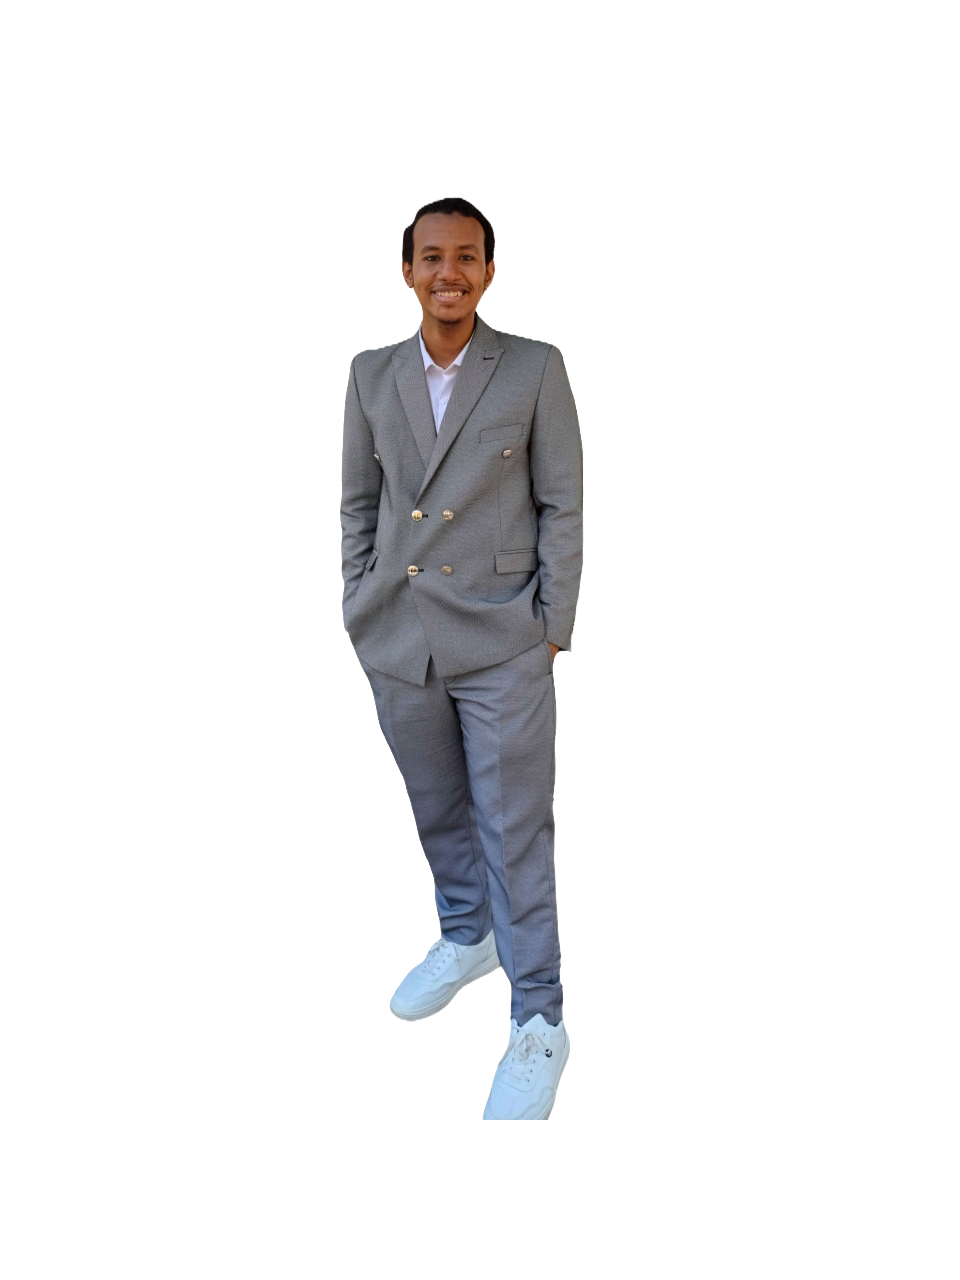
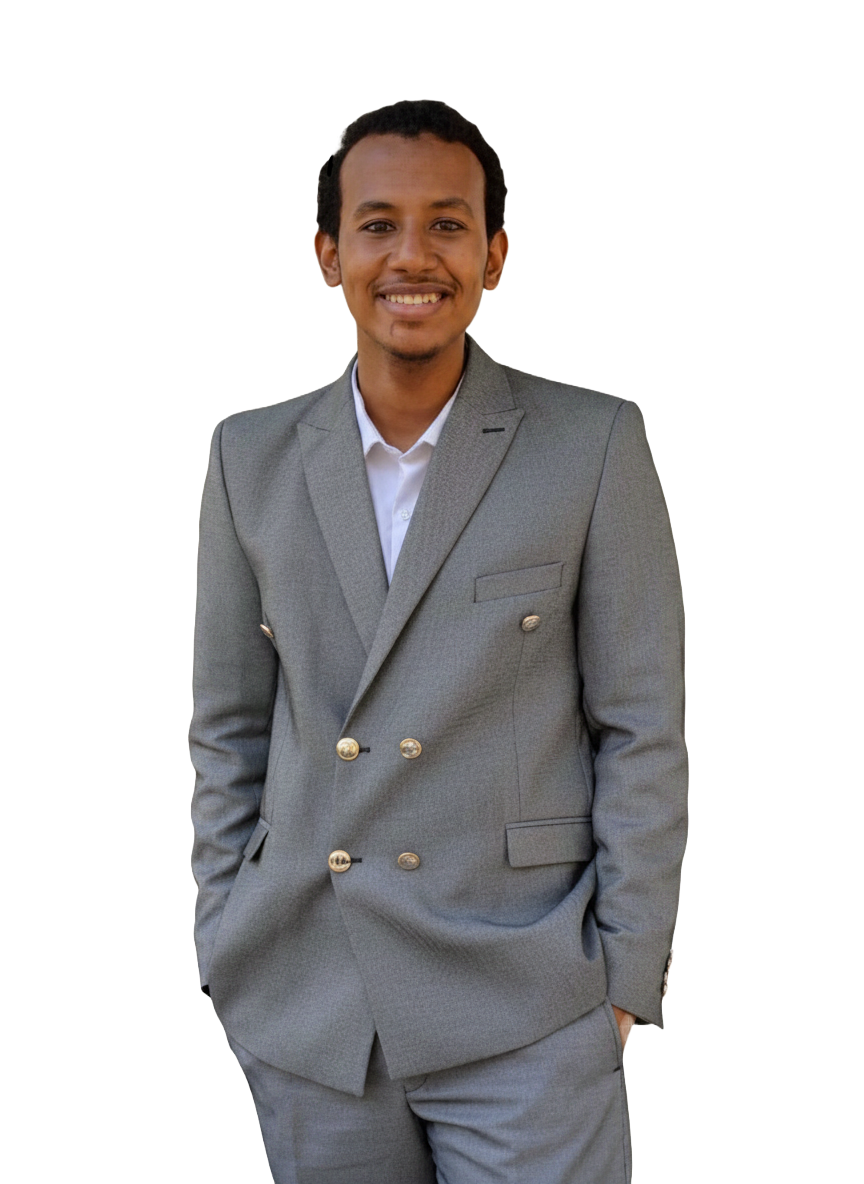
profile image updated

diff --git a/index.html b/index.html
@@ -218,9 +218,9 @@
     .hero-photo::before {
       content: "";
       position: absolute;
-      inset: -14px;
+      inset: -10px;
       z-index: -1;
-      border-radius: 40px;
+      border-radius: 34px;
       background: linear-gradient(135deg, var(--primary), var(--accent));
       filter: blur(26px);
       opacity: .5;
@@ -228,7 +228,7 @@
     }
 
     .hero-photo img {
-      width: clamp(230px, 29vw, 370px);
+      width: clamp(260px, 32vw, 400px);
       border-radius: 30px;
       border: 3px solid rgba(255, 255, 255, .14);
       object-fit: cover;
